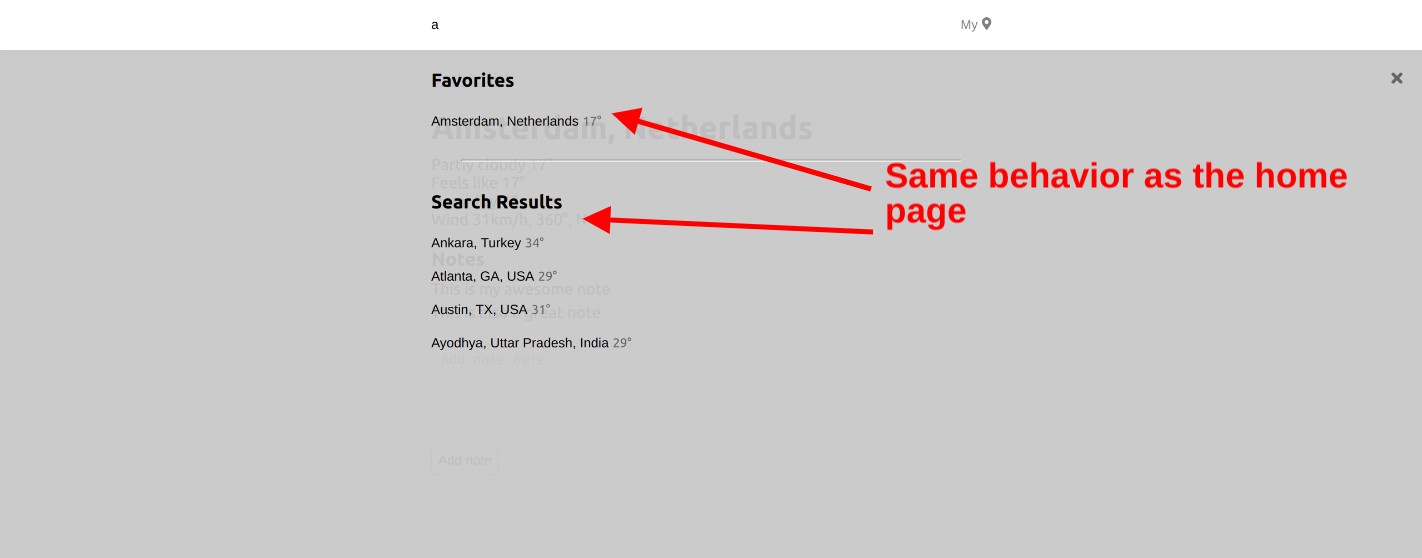
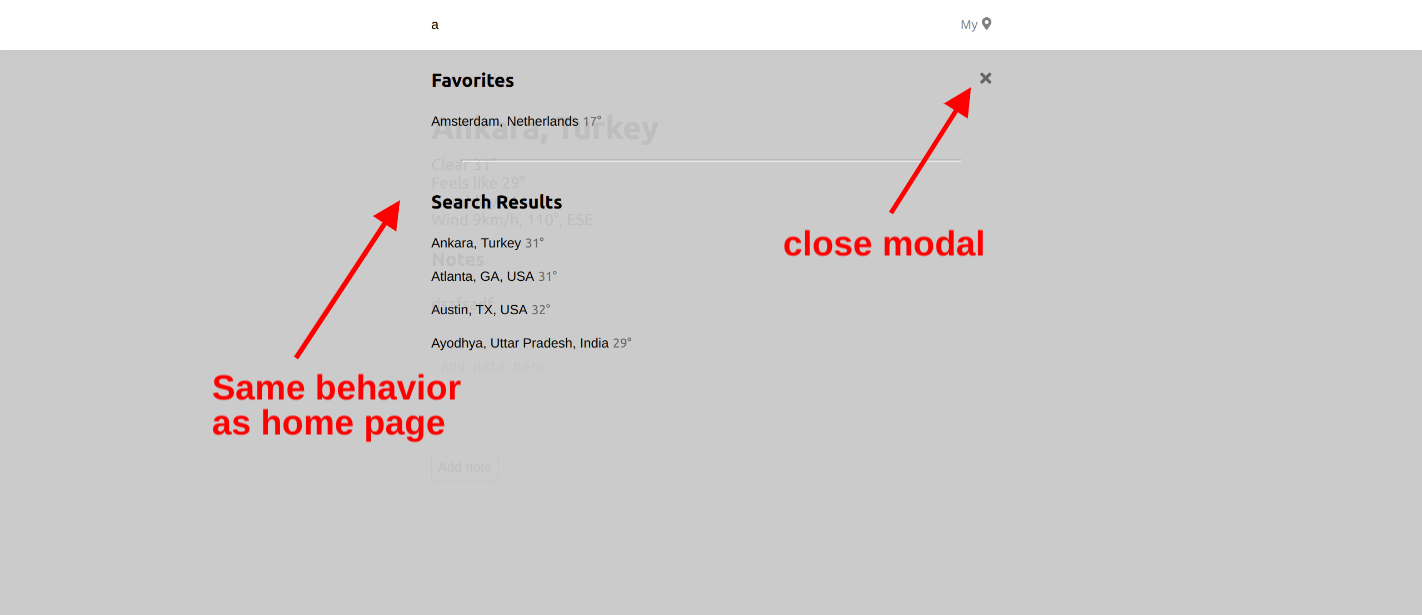
modal

diff --git a/src/components/SearchResultsModalForInnerPages/SearchResultsModalForInnerPages.js b/src/components/SearchResultsModalForInnerPages/SearchResultsModalForInnerPages.js
@@ -43,14 +43,16 @@ const SearchResultsModalForInnerPages = () => {
   return (
     <div className={styles.modal}>
       <Container>
-        <Cities title="Favorites" isFavorites cities={favoriteCities} />
-        {favoriteCities.length > 0 && <hr style={{ margin: 30 }} />}
-        {searchResults}
-        <FontAwesomeIcon
-          onClick={() => dispatch(setIsInnerPagesSearchModalOpen(false))}
-          icon={faTimes}
-          className={styles.close}
-        />
+        <div style={{ position: "relative" }}>
+          <Cities title="Favorites" isFavorites cities={favoriteCities} />
+          {favoriteCities.length > 0 && <hr style={{ margin: 30 }} />}
+          {searchResults}
+          <FontAwesomeIcon
+            onClick={() => dispatch(setIsInnerPagesSearchModalOpen(false))}
+            icon={faTimes}
+            className={styles.close}
+          />
+        </div>
       </Container>
     </div>
   )

diff --git a/src/features/cityNotes/CityNotes.module.css b/src/features/cityNotes/CityNotes.module.css
@@ -1,8 +1,8 @@
 .cityNote {
   display: flex;
   justify-content: space-between;
-  margin-top: 5px;
-  margin-bottom: 5px;
+  padding-top: 15px;
+  padding-bottom: 15px;
 }
 
 .noteActions {

diff --git a/src/components/SearchResultsModalForInnerPages/SearchResultsModalForInnerPages.module.css b/src/components/SearchResultsModalForInnerPages/SearchResultsModalForInnerPages.module.css
@@ -22,7 +22,7 @@
 .close {
   opacity: 0.5;
   position: absolute;
-  top: 20px;
-  right: 20px;
+  top: 0;
+  right: 0;
   cursor: pointer;
 }

diff --git a/README.md b/README.md
@@ -30,11 +30,13 @@ By default, the home page loads the 15 largest cities in the world by population
 
 ![home page default results](readme-images/home-page-default.png)
 
-Users can add cities to favorites and/or remove them from the display
+Clicking on a city from the list navigates to the details page of that city.
+
+Users can add cities to favorites and/or remove them from the display.
 
 ![home page actions](readme-images/home-page-actions.png)
 
-Users can remove cities from favorites
+Users can remove cities from favorites.
 
 ![remove city from favorites](readme-images/home-page-favorites.png)
 
@@ -54,7 +56,11 @@ Using the search bar in this page will open up a modal with the dynamic results.
 
 ### User location page
 
-Shows detailed information about the user's current location. Users will be prompted to grant the app permission to detect their location.
+Shows detailed information about the user's current location.
+
+![go to user location page](readme-images/goto-location-page.png)
+
+Users will be prompted to grant the app permission to detect their location.
 
 ![detect location prompt](readme-images/location-prompt.png)
 
